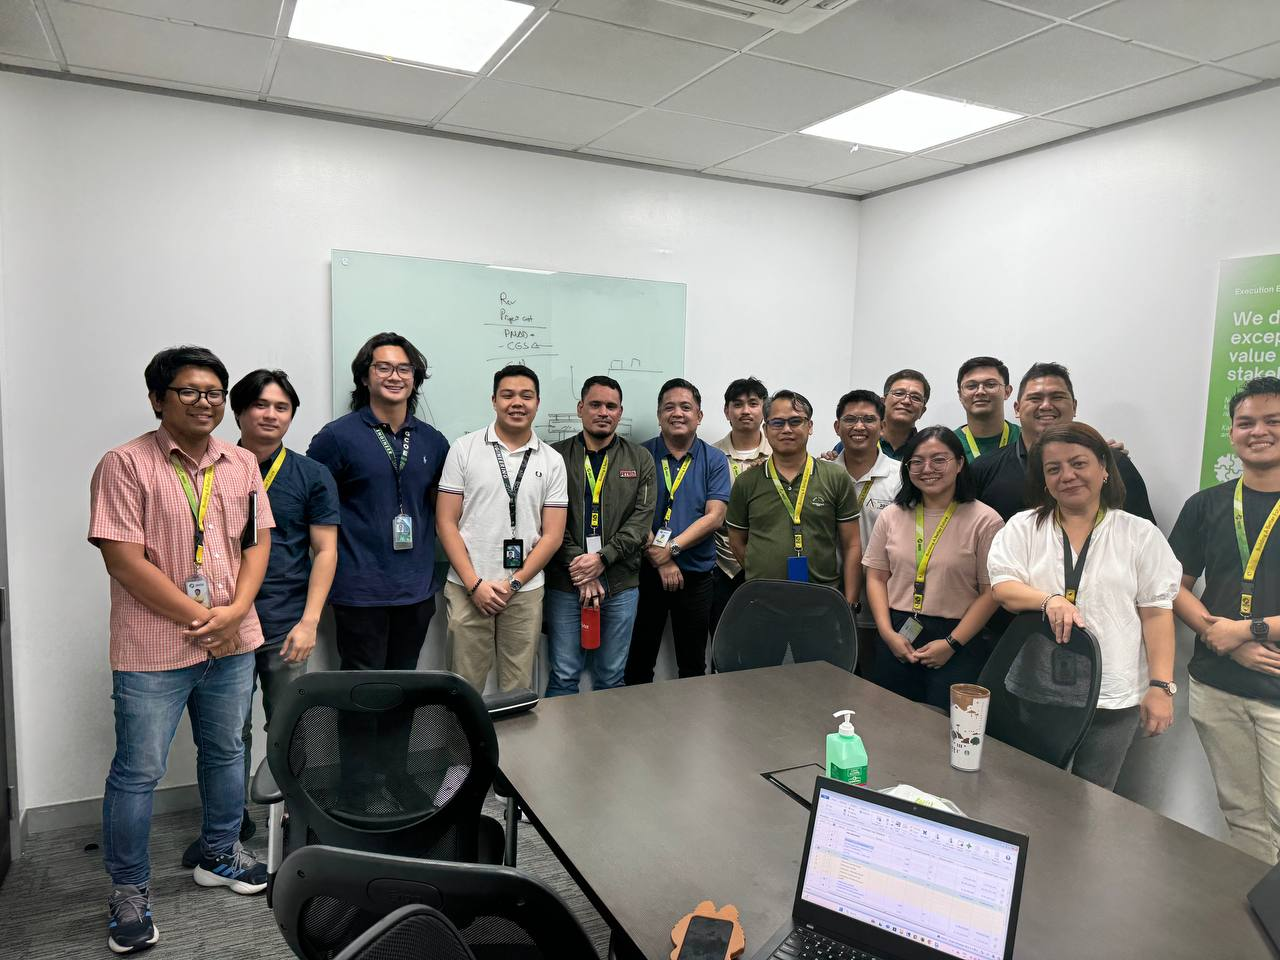
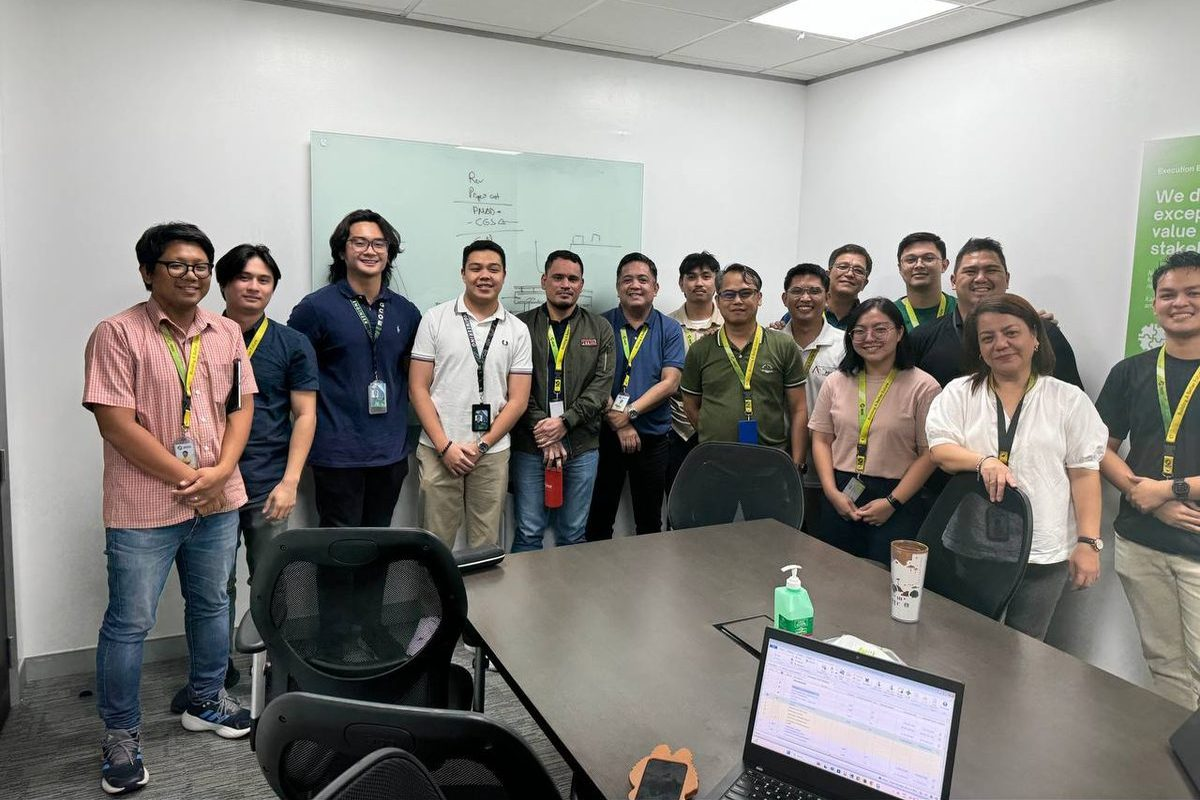
Crop photos to 3:2, add captions, retheme white and green

diff --git a/style.css b/style.css
@@ -1,11 +1,12 @@
 :root {
-  --bg: #0f172a;
-  --bg2: #1e293b;
-  --text: #e2e8f0;
-  --muted: #94a3b8;
-  --accent: #38bdf8;
-  --card: #1e293b;
-  --border: #334155;
+  --bg: #ffffff;
+  --bg2: #f0fdf4;
+  --text: #1c2b21;
+  --muted: #5c7a65;
+  --accent: #16a34a;
+  --accent-dark: #15803d;
+  --card: #ffffff;
+  --border: #cfe6d4;
 }
 * { box-sizing: border-box; margin: 0; padding: 0; }
 body {
@@ -18,16 +19,16 @@ a { color: var(--accent); text-decoration: none; }
 nav {
   display: flex; justify-content: space-between; align-items: center;
   padding: 1rem 2rem; position: sticky; top: 0;
-  background: rgba(15,23,42,0.95); border-bottom: 1px solid var(--border);
+  background: rgba(255,255,255,0.95); border-bottom: 1px solid var(--border);
 }
-.logo { font-weight: 800; font-size: 1.4rem; color: white; }
+.logo { font-weight: 800; font-size: 1.4rem; color: var(--accent-dark); }
 .nav-links a { margin-left: 1.2rem; color: var(--text); font-size: 0.95rem; }
 .nav-links a:hover { color: var(--accent); }
 .hero {
   padding: 4rem 2rem; max-width: 800px; margin: 0 auto; text-align: left;
 }
 .eyebrow { color: var(--accent); font-weight: 600; letter-spacing: 1px; text-transform: uppercase; }
-.hero h1 { font-size: 2.8rem; margin: 0.3rem 0; color: white; }
+.hero h1 { font-size: 2.8rem; margin: 0.3rem 0; color: #14532d; }
 .hero h2 { font-size: 1.2rem; font-weight: 500; color: var(--muted); margin-bottom: 1rem; }
 .bio { margin: 1rem 0 1.5rem; font-size: 1.05rem; }
 .cta { display: flex; gap: 0.8rem; flex-wrap: wrap; }
@@ -35,20 +36,22 @@ nav {
   padding: 0.7rem 1.3rem; border-radius: 8px; font-weight: 600; border: 1px solid var(--border);
   display: inline-block;
 }
-.btn.primary { background: var(--accent); color: #0f172a; border-color: var(--accent); }
-.btn.secondary { background: transparent; color: var(--text); }
+.btn.primary { background: var(--accent); color: white; border-color: var(--accent); }
+.btn.primary:hover { background: var(--accent-dark); }
+.btn.secondary { background: white; color: var(--accent-dark); border-color: var(--accent); }
 .btn:hover { opacity: 0.9; }
 main { max-width: 900px; margin: 0 auto; padding: 0 2rem 3rem; }
 section { margin: 2.5rem 0; }
 section h3 {
-  font-size: 1.5rem; color: white; margin-bottom: 1rem;
+  font-size: 1.5rem; color: #14532d; margin-bottom: 1rem;
   border-bottom: 2px solid var(--accent); display: inline-block; padding-bottom: 0.2rem;
 }
 .card {
   background: var(--card); border: 1px solid var(--border);
   padding: 1.2rem; border-radius: 12px; margin-top: 1rem;
+  box-shadow: 0 1px 3px rgba(22,163,74,0.08);
 }
-.card h4 { color: white; margin-bottom: 0.5rem; }
+.card h4 { color: #14532d; margin-bottom: 0.5rem; }
 .card ul { margin-left: 1.2rem; margin-top: 0.5rem; color: var(--text); }
 .muted { color: var(--muted); }
 .small { font-size: 0.85rem; margin-top: 1rem; }
@@ -69,9 +72,10 @@ section h3 {
 .project h4, .project p, .project .tags { padding-left: 1.2rem; padding-right: 1.2rem; }
 .project h4 { padding-top: 1rem; }
 .project .tags { padding-bottom: 1.2rem; }
-.project-img { width: 100%; aspect-ratio: 3 / 2; background: #0b1220; border-bottom: 1px solid var(--border); overflow: hidden; }
+.project-img { width: 100%; aspect-ratio: 3 / 2; background: #e8f5ec; border-bottom: 1px solid var(--border); overflow: hidden; }
 .project-img img { width: 100%; height: 100%; object-fit: cover; display: block; }
-code { background: #0b1220; padding: 0.1rem 0.4rem; border-radius: 6px; border: 1px solid var(--border); font-size: 0.85em; }
+.caption { font-size: 0.8rem; color: var(--muted); font-style: italic; padding: 0.35rem 1.2rem 0; }
+code { background: var(--bg2); padding: 0.1rem 0.4rem; border-radius: 6px; border: 1px solid var(--border); font-size: 0.85em; }
 footer { text-align: center; padding: 2rem; color: var(--muted); border-top: 1px solid var(--border); font-size: 0.9rem; }
 @media (max-width: 600px) {
   .hero h1 { font-size: 2rem; }

diff --git a/index.html b/index.html
@@ -108,6 +108,7 @@
           <div class="project-img">
             <img src="images/aboitiz-intern.jpg" onerror="this.onerror=null;this.src='https://placehold.co/600x400/1e293b/38bdf8?text=Aboitiz+Intern+Photo';" alt="Civil Works Estimator Intern team at Aboitiz Construction Inc." loading="lazy" />
           </div>
+          <p class="caption">Estimator intern team, Manila 2024</p>
           <h4>Power Plant QS & Tender Support</h4>
           <p class="muted">Aboitiz Construction Inc. • Sep – Dec 2024</p>
           <p>Take-offs, BOQ build-up, and Primavera P6 costing for energy + industrial farm infrastructure. Photo: internship team in Manila.</p>
@@ -117,9 +118,11 @@
           <div class="project-img">
             <img src="images/bamboo-samples.jpg" onerror="this.onerror=null;this.src='https://placehold.co/600x400/1e293b/38bdf8?text=Bamboo+Samples';" alt="Labeled bamboo test specimens for Base Bahay research" loading="lazy" />
           </div>
+          <p class="caption">Labeled specimens ready for testing</p>
           <div class="project-img">
             <img src="images/bamboo-testing.jpg" onerror="this.onerror=null;this.src='https://placehold.co/600x400/1e293b/38bdf8?text=Bamboo+Compression+Test';" alt="Bamboo sample under compression in Shimadzu machine" loading="lazy" />
           </div>
+          <p class="caption">Compression test, 100 kN press</p>
           <h4>Bamboo Structural Testing</h4>
           <p class="muted">Base Bahay Foundation • Feb 2024</p>
           <p>Prepared and compression-tested labeled bamboo specimens (Shimadzu AG-X 100kN) and wrote technical performance reports.</p>
